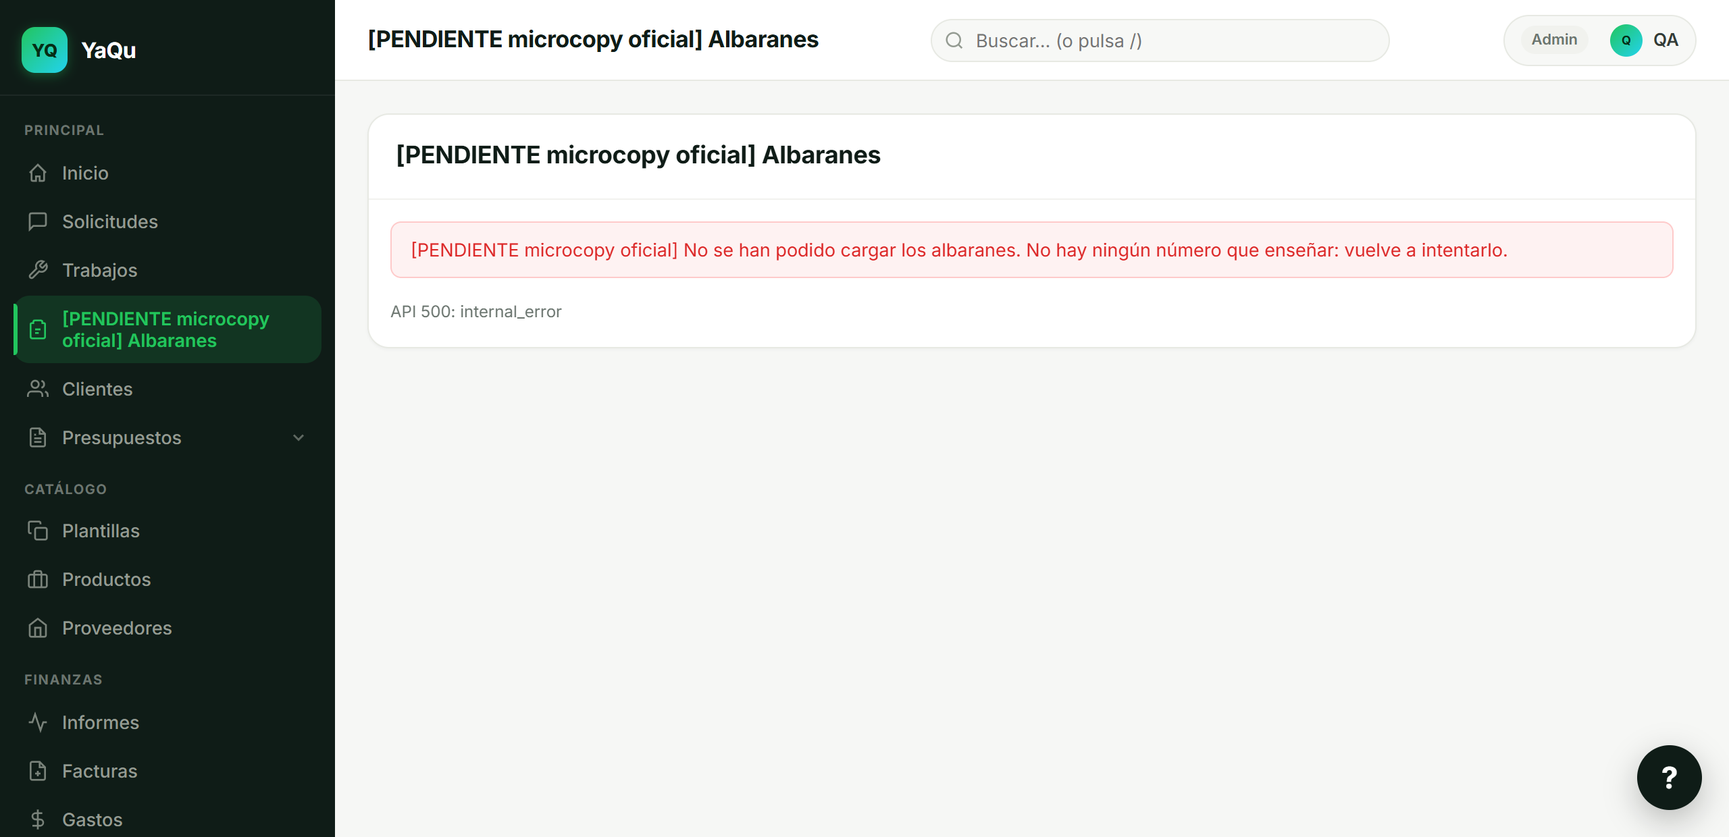
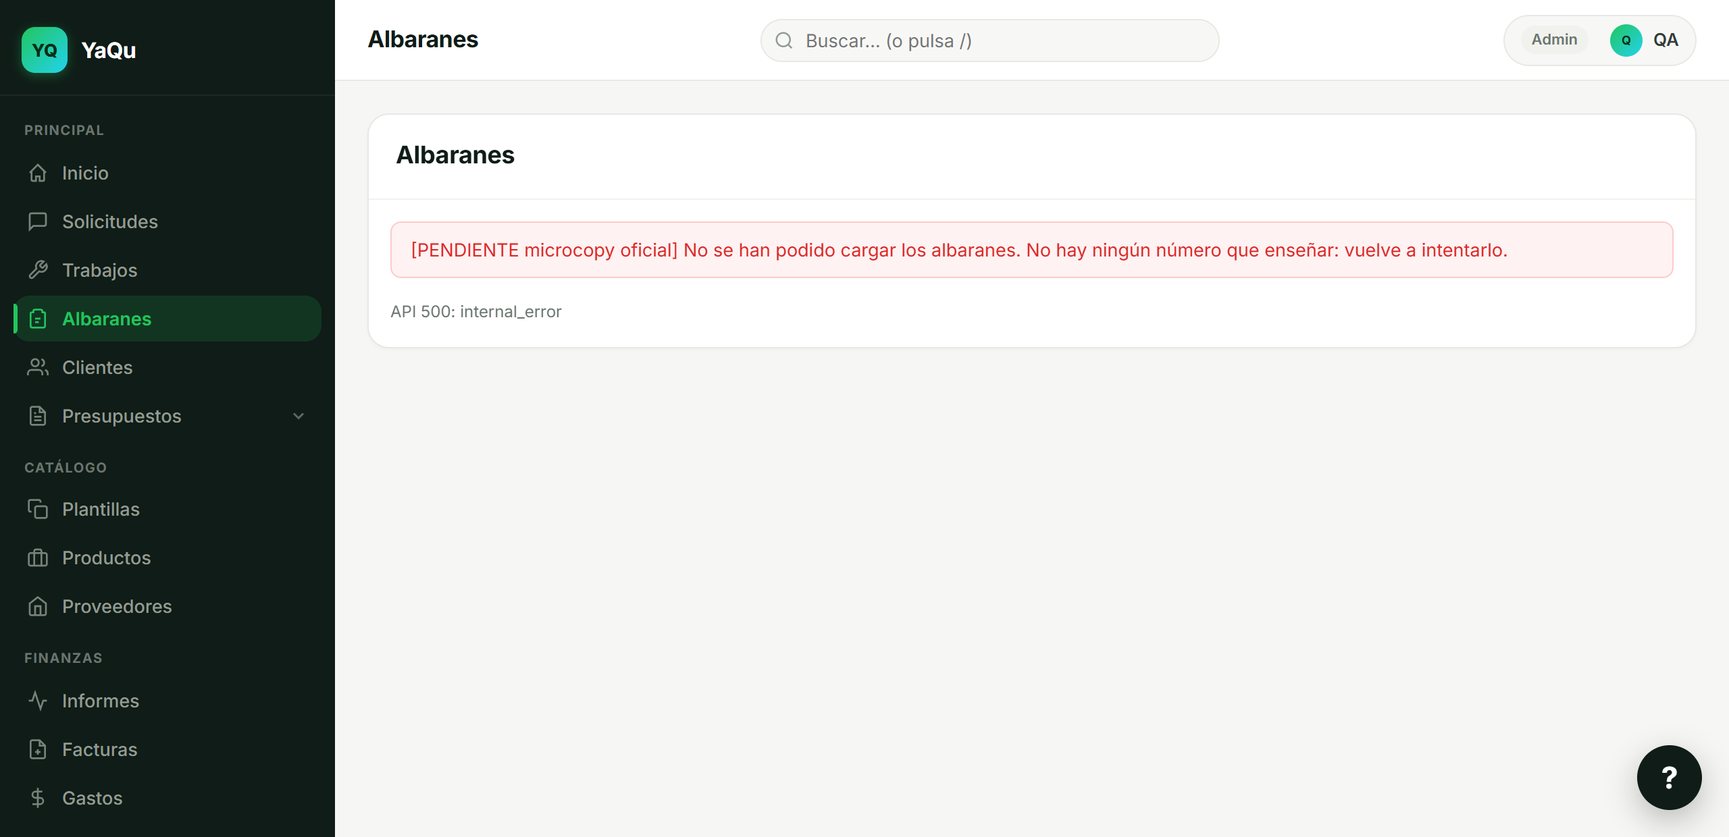
SCRUM-301: admin-only el listado global, y la microcopy APROBADA
PERMISOS. La primera version declaro la ruta en TECNICO_ALLOWED con el criterio
de `consolidables` -- "es la misma informacion, agrupada". El asesor lo rechazo
y tenia razon: ese criterio vale cuando la informacion YA era visible, y aqui no
lo era.

SCRUM-147 midio y cerro que un tecnico solo ve SUS Trabajos (seesOnlyOwnJobs:
allowlist de admin, rol desconocido restringido). Los albaranes cuelgan de
Trabajos, asi que un listado global le enseñaria de que obras AJENAS hay partes,
de que clientes y con que fechas: lo que la puerta principal le niega, por la
puerta de atras. Y no es aplazable -- cerrar de mas es un incordio; abrir de mas
no se deshace, porque arreglarlo despues obliga a saber quien lo uso mientras
tanto.

Asi que requireRole('admin'), fuera de TECNICO_ALLOWED y DENTRO de
ADMIN_ONLY_ROUTES: ahi su 403 con sesion de tecnico queda EXIGIDO por la tanda
gateada, no solo declarado en un comentario.

Medido por si se decide abrirlo con criterio: aplicar el filtro de Trabajos
seria barato -- seesOnlyOwnJobs + prefiltrar los jobId con operarioId =
teamMemberId, como hace GET /admin/jobs -- pero QUE debe ver exactamente el
tecnico es decision de producto y se toma en su ticket, no aqui.

MICROCOPY. Aprobadas las cuatro ranuras: tres tal cual y el filtro con retoque
("Facturacion: todos", no "todas", porque concuerda con "albaranes", que es lo
que se cuenta). El marcador se retira de esas cuatro y EL GUARD CAMBIA DE
[…]

Changed region(s): [[0.0, 0.3677, 0.1875, 1.0], [0.2188, 0.1532, 0.5, 0.2145], [0.1875, 0.0306, 0.6562, 0.0613]]

diff --git a/public/dashboard/js/albaranesView.js b/public/dashboard/js/albaranesView.js
@@ -28,23 +28,43 @@
 // «No tienes ninguno» sigue siendo una respuesta legítima y tiene su propio estado vacío.
 //
 // ─────────────────────────────────────────────────────────────────────────────────────────
-// MICROCOPY (regla 30): TODO RÓTULO VA CON MARCADOR
+// MICROCOPY: APROBADA POR EL ASESOR EL 5-AGO-2026 (regla 30)
 //
-// El nombre de la sección, los de las pestañas y los de las columnas son texto SIN APROBAR. Van con
-// `[PENDIENTE microcopy oficial]` delante, mismo patrón que los cuatro títulos de bloque de
-// SCRUM-286. Sí, se lee mal a propósito: el marcador existe para que moleste hasta que el texto
-// definitivo esté aprobado.
+// Se entregó con `[PENDIENTE microcopy oficial]` en cada rótulo y el asesor aprobó las cuatro
+// ranuras: tres tal cual y una con retoque («Facturación: TODOS», no «todas», porque concuerda con
+// «albaranes» — que es lo que se cuenta; «todas» arrastra a pensar en facturas, que es justo el
+// objeto que este filtro NO cuenta). El marcador se retira y el guard cambia de trabajo: ahora
+// compara ranura a ranura contra el texto aprobado, porque retocar copy aprobada es decisión del
+// asesor y no un detalle de implementación.
 //
-// Las etiquetas de estado dentro de cada fila NO llevan marcador y no es una excepción: ahí se
-// imprime EL VALOR DEL MODELO tal cual (`emitido`, `parcial`), que es dato y no copy. Además es lo
-// que impide repetir el error de B2 — nadie va a escribir «Enviado» en una pantalla que pone
-// `emitido`.
+// ⚠ LAS ETIQUETAS DE LAS PESTAÑAS SE DERIVAN DEL VALOR, NO SE ESCRIBEN. Un mapa
+// `{ borrador: 'Borradores', … }` sería otra vez la lista a mano que este fichero evita: el día que
+// el modelo gane un estado, esa pestaña saldría sin nombre o directamente no saldría. La regla de
+// plural del español (vocal → +s, consonante → +es) produce EXACTAMENTE los tres rótulos aprobados,
+// y un test los fija uno a uno.
+//
+// Las etiquetas de estado dentro de cada fila imprimen EL VALOR DEL MODELO tal cual (`emitido`,
+// `parcial`): dato, no copy. Es lo que impide repetir el error de B2 — nadie va a escribir
+// «Enviado» en una pantalla que pone `emitido`.
 (function () {
+  const TODOS = '__todos__'; // valor de pestaña, no un estado del modelo
+
+  // Las CUATRO ranuras aprobadas son: el nombre de la sección, las pestañas, las columnas y el
+  // filtro de facturación. El resto de textos de esta pantalla —el aviso de error, el subtítulo del
+  // recuento, el buscador y los dos estados vacíos— NO se sometieron y siguen con marcador: son
+  // ranuras distintas y aprobarlas por mi cuenta sería inventarme copy oficial (regla 30).
   const MARCA = '[PENDIENTE microcopy oficial]';
-  /** Rótulo sin aprobar: marcador + borrador de texto (patrón SCRUM-286). */
   function rotulo(borrador) { return MARCA + ' ' + borrador; }
 
-  const TODOS = '__todos__'; // valor de pestaña, no un estado del modelo
+  /** Plural español del valor + mayúscula inicial: `borrador` → `Borradores`, `emitido` → `Emitidos`. */
+  function etiquetaEstado(valor) {
+    const s = String(valor).replace(/_/g, ' ');
+    const plural = /[aeiouáéíóú]$/i.test(s) ? s + 's' : s + 'es';
+    return plural.charAt(0).toUpperCase() + plural.slice(1);
+  }
+
+  /** El eje de cobro se lee como se escribe: `sin_facturar` → `sin facturar`. Sin plural. */
+  function etiquetaCobro(valor) { return String(valor).replace(/_/g, ' '); }
 
   function esc(s) {
     return String(s == null ? '' : s).replace(/[&<>"']/g, (c) => (
@@ -84,7 +104,7 @@
 
     const left = document.createElement('div');
     const title = document.createElement('h2');
-    title.textContent = rotulo('Albaranes');
+    title.textContent = 'Albaranes'; // APROBADO 5-ago-2026 (nombre del documento, precedente C2)
     title.style.cssText = 'margin:0;font-size:18px';
     left.appendChild(title);
     const subtitle = document.createElement('p');
@@ -155,7 +175,7 @@
         b.type = 'button';
         b.className = 'data-card-tab' + (d.valor === TODOS ? ' active' : '');
         b.dataset.tab = d.valor;
-        b.textContent = rotulo(d.valor === TODOS ? 'todos' : d.valor);
+        b.textContent = d.valor === TODOS ? 'Todos' : etiquetaEstado(d.valor); // APROBADO
         const badge = document.createElement('span');
         badge.className = 'badge badge-slate';
         badge.dataset.contador = d.valor;
@@ -183,15 +203,19 @@
       const selCobro = document.createElement('select');
       selCobro.className = 'input';
       selCobro.style.cssText = 'width:auto';
-      selCobro.setAttribute('aria-label', rotulo('Filtrar por facturación'));
+      selCobro.setAttribute('aria-label', 'Facturación'); // APROBADO
       // El eje derivado vive en su propio control, con sus contadores: es OTRA pregunta, no una
       // pestaña más. Aplanarlo perdería el `parcial`.
-      const opciones = [{ valor: TODOS, texto: 'facturación: todas', n: contadores.total }]
-        .concat(ejes.cobro.map((v) => ({ valor: v, texto: v, n: contadores.porCobro[v] || 0 })));
+      //
+      // APROBADO con retoque (5-ago-2026): «todos», no «todas» — concuerda con «albaranes», que es
+      // lo que se cuenta. «Todas» arrastra a pensar en facturas, que es justo el objeto que este
+      // filtro NO cuenta.
+      const opciones = [{ valor: TODOS, texto: 'Facturación: todos', n: contadores.total }]
+        .concat(ejes.cobro.map((v) => ({ valor: v, texto: etiquetaCobro(v), n: contadores.porCobro[v] || 0 })));
       for (const o of opciones) {
         const op = document.createElement('option');
         op.value = o.valor;
-        op.textContent = rotulo(o.texto + ' (' + o.n + ')');
+        op.textContent = o.texto + ' (' + o.n + ')';
         selCobro.appendChild(op);
       }
       selCobro.addEventListener('change', () => { cobroActivo = selCobro.value; activar(); });
@@ -207,7 +231,7 @@
       const thead = document.createElement('thead');
       thead.innerHTML = '<tr>' +
         ['Nº', 'Emisión', 'Entrega', 'Cliente', 'Trabajo', 'Estado']
-          .map((c) => '<th>' + esc(rotulo(c)) + '</th>').join('') +
+          .map((c) => '<th>' + esc(c) + '</th>').join('') + // APROBADAS tal cual
         '</tr>';
       tabla.appendChild(thead);
       const tbody = document.createElement('tbody');

diff --git a/src/core/http/adminRouteDeclarations.ts b/src/core/http/adminRouteDeclarations.ts
@@ -77,14 +77,15 @@ export const TECNICO_ALLOWED: ReadonlyArray<RouteDeclaration> = [
   { method: 'GET',   path: '/admin/albaranes/:id/fotos', why: 'Ver las fotos que él mismo subió' },
   { method: 'POST',  path: '/admin/albaranes/:id/enviar-whatsapp', why: 'S1 "enviar WA" ✅; requireActivePlan, sin rol (SCRUM-47)' },
   { method: 'POST',  path: '/admin/albaranes/:id/enviar-para-firmar', why: 'Firma remota del albarán (SCRUM-47/49)' },
-  // SCRUM-301 (C1): el LISTADO GLOBAL. Mismo criterio que `consolidables` justo debajo —«es la
-  // misma información, agrupada»—: solo lectura, filtrado por merchant, y ni un dato que el técnico
-  // no vea ya entrando obra por obra. Negárselo mientras puede rellenar, emitir y firmar cada parte
-  // (y ver su ficha, SCRUM-302) sería incoherente: es su trabajo de campo, ahora con un sitio.
-  // ⚠ Es una decisión de PERMISOS y va escrita para que se revise: si el criterio fuera que el
-  // operario solo vea los partes de SUS obras, esto no se arregla aquí sino con un filtro por
-  // operario en la consulta — y eso es otro ticket.
-  { method: 'GET',   path: '/admin/albaranes', why: 'SCRUM-301: listado global de partes, la misma información que ya ve por obra, agrupada' },
+  // ⚠ SCRUM-301: `GET /admin/albaranes` (el listado global) NO está en esta lista, y la razón
+  // merece leerse antes de «arreglarlo» añadiéndola: es **admin-only con `requireRole`**.
+  //
+  // El criterio de «la misma información, agrupada» —el que justifica `consolidables` aquí abajo—
+  // vale cuando la información YA era visible. Para el técnico no lo era: SCRUM-147 midió y cerró
+  // que un técnico solo ve SUS Trabajos (`seesOnlyOwnJobs`, allowlist, rol desconocido restringido).
+  // Los albaranes cuelgan de Trabajos, así que un listado global le enseñaría de qué obras AJENAS
+  // hay partes, de qué clientes y con qué fechas: exactamente lo que la puerta principal le niega,
+  // servido por la puerta de atrás. Cerrar de más es un incordio; abrir de más no se deshace.
   { method: 'GET',   path: '/admin/albaranes/pendientes-facturar', why: 'SCRUM-69: bandeja de facturación, mismo criterio S1 que GET /admin/invoices ("facturas: ver sí")' },
   { method: 'GET',   path: '/admin/albaranes/consolidables', why: 'SCRUM-70: vista previa de la recapitulativa (cliente+mes). MISMO criterio que la bandeja de SCRUM-69 — es la misma información, agrupada: solo lectura y ningún dato que el técnico no vea ya ahí. NO emite.' },
 

diff --git a/src/modules/jobs/app/routes/albaranes.routes.ts b/src/modules/jobs/app/routes/albaranes.routes.ts
@@ -96,8 +96,23 @@ const lectorPrismaListado: LectorListado = {
  * La lógica (ejes, contadores, derivado de cobro) vive en `albaranesListado.ts` con su lector
  * inyectable: así la tenencia se prueba EJERCITANDO el camino con dos merchants, y no fiándose de
  * que el fichero mencione `merchantId` (SCRUM-348).
+ *
+ * 🔴 ADMIN-ONLY, y no es una precaución de más. SCRUM-147 midió y cerró que **un técnico solo ve
+ * SUS Trabajos** (`seesOnlyOwnJobs`: allowlist de 'admin', rol desconocido restringido). Los
+ * albaranes cuelgan de Trabajos, así que un listado global le enseñaría de qué obras AJENAS hay
+ * partes, de qué clientes y con qué fechas — lo que la puerta principal le niega, servido por la
+ * puerta de atrás.
+ *
+ * El criterio de «la misma información, agrupada» (el que abre `consolidables` al técnico) vale
+ * cuando la información YA era visible; aquí no lo era. Abrir de más no se deshace: haría falta
+ * saber quién lo usó mientras tanto.
+ *
+ * Si algún día el técnico debe ver los partes de SUS obras, el mecanismo ya existe y es barato
+ * —`seesOnlyOwnJobs(req.userRole)` + prefiltrar los `jobId` con `operarioId = req.teamMemberId`,
+ * como hace `GET /admin/jobs`—, pero **qué debe ver exactamente es una decisión de producto**, no
+ * un detalle de implementación: se decide en su ticket, no aquí.
  */
-router.get('/', async (req, res) => {
+router.get('/', requireRole('admin'), async (req, res) => {
   try {
     const listado = await listarAlbaranesDelMerchant(req.merchantId!, lectorPrismaListado);
     return res.json(listado);

diff --git a/public/dashboard/index.html b/public/dashboard/index.html
@@ -47,11 +47,12 @@
         </button>
 
         <!-- SCRUM-301 (C1): los albaranes pasan a ser SITIO propio. Va justo detrás de Trabajos
-             porque cuelgan de una obra, no de un cliente. ⚠ El rótulo es microcopy SIN APROBAR
-             (regla 30) y lleva su marcador; B1 no había creado esta entrada — medido, no supuesto. -->
+             porque cuelgan de una obra, no de un cliente. B1 no había creado esta entrada — medido,
+             no supuesto. Rótulo APROBADO por el asesor el 5-ago-2026: es el nombre del documento,
+             no copy de acción (mismo criterio que C2 fijó para el título del detalle). -->
         <button class="nav-item" data-view="albaranes" id="nav-albaranes">
           <svg class="nav-icon" viewBox="0 0 24 24" fill="none" stroke="currentColor" stroke-width="2"><path d="M9 2h6a2 2 0 012 2v1h2a1 1 0 011 1v14a2 2 0 01-2 2H6a2 2 0 01-2-2V6a1 1 0 011-1h2V4a2 2 0 012-2z"/><path d="M9 12h6M9 16h4"/></svg>
-          <span id="nav-albaranes-label">[PENDIENTE microcopy oficial] Albaranes</span>
+          <span id="nav-albaranes-label">Albaranes</span>
         </button>
 
         <button class="nav-item" data-view="customers">

diff --git a/src/core/http/adminOnlyRoutes.ts b/src/core/http/adminOnlyRoutes.ts
@@ -35,6 +35,11 @@ export const ADMIN_ONLY_ROUTES: ReadonlyArray<{ method: string; path: string; bo
   { method: 'POST', path: '/admin/connect/onboard' },
   // Supervisión por operario (SCRUM-24): S1 → equipo/supervisión es Admin
   { method: 'GET', path: '/admin/metrics/operarios' },
+  // SCRUM-301 (C1): el listado GLOBAL de albaranes. Un técnico solo ve SUS Trabajos (SCRUM-147,
+  // `seesOnlyOwnJobs`), y los albaranes cuelgan de Trabajos: enseñárselos todos le diría de qué
+  // obras ajenas hay partes, de qué clientes y con qué fechas. Aquí queda su 403 EXIGIDO, no
+  // solo declarado — que es la diferencia entre una decisión de permisos y una intención.
+  { method: 'GET', path: '/admin/albaranes' },
   // SCRUM-55: su hermana /team salía 200 a un Operario en PRODUCCIÓN. Mismo criterio de S1
   // ("equipo ❌ Técnico") y mismo router; estaba aparcada como "Nivel 2" por descuido, no
   // por duda. Aquí queda su 403 exigido.

diff --git a/public/dashboard/js/app.js b/public/dashboard/js/app.js
@@ -247,9 +247,9 @@ async function initApp() {
         renderInvoicesView(viewContainer);
         break;
       case 'albaranes':
-        // SCRUM-301 (C1): sección propia. El título de la pantalla es microcopy sin aprobar
-        // (regla 30) igual que el rótulo del menú, así que lleva su marcador.
-        viewTitle.textContent = '[PENDIENTE microcopy oficial] Albaranes';
+        // SCRUM-301 (C1): sección propia. Rótulo APROBADO (5-ago-2026), mismo que el del menú: es
+        // el nombre del documento, no copy de acción — el criterio que C2 dejó escrito aquí abajo.
+        viewTitle.textContent = 'Albaranes';
         if (typeof window.renderAlbaranesView === 'function') window.renderAlbaranesView(viewContainer);
         break;
       case 'albaran-detail':

diff --git a/docs/master/SCRUM-301.md b/docs/master/SCRUM-301.md
@@ -4,7 +4,7 @@
 
 **Medido contra:** `origin/main` = `56874623baa406a0e8e38b93c236f7a4740b1e6a` · 2026-08-05T16:38:08+01:00
 
-**Tanda:** 1759 tests, 1692 pass, 0 fail, 67 skipped (los 67 son los gateados de staging)
+**Tanda:** 1760 tests, 1693 pass, 0 fail, 67 skipped (los 67 son los gateados de staging)
 
 ## El defecto
 
@@ -99,7 +99,7 @@ que mencione `merchantId` por el motivo que sea (medido en SCRUM-348). Aquí se 
 
 ## Verificado en rojo
 
-Once sabotajes, cada uno aplicado, compilado, corrido y revertido con verificación byte a byte:
+Dieciséis sabotajes, cada uno aplicado, compilado, corrido y revertido con verificación byte a byte:
 
 | Se quita la cosa vigilada | Sale rojo |
 | --- | --- |
@@ -112,10 +112,15 @@ Once sabotajes, cada uno aplicado, compilado, corrido y revertido con verificaci
 | La vista enumera un estado a mano | ③ la vista no enumera |
 | El camino de error dibuja pestañas | el guard del error |
 | El aviso de error pierde el tono (invisible por CSS) | el guard del error |
-| El rótulo del menú pierde el marcador | microcopy |
 | **La vista deja de cargarse en `index.html`** | **nada — y ése fue el hallazgo** |
+| La ruta pierde su `requireRole` | SCRUM-55 (fail-closed de roles) |
+| El filtro vuelve a decir «todas» | la copy aprobada, ranura a ranura |
+| La regla de plural deja de dar «Borradores» | la copy aprobada |
+| Se reescribe una columna aprobada | la copy aprobada |
+| Un rótulo SIN aprobar pierde su marcador | el guard de lo no sometido |
+| El menú vuelve a llevar marcador sobre texto aprobado | la copy aprobada |
 
-🔴 **El último sabotaje encontró un guard incapaz de fallar.** Comprobaba `assert.match(index,
+🔴 **El de «la vista deja de cargarse» encontró un guard incapaz de fallar.** Comprobaba `assert.match(index,
 /albaranesView\.js/)`, así que **comentar la etiqueta `<script>` lo dejaba en verde**: el texto
 seguía en el fichero. Un guard que no distingue una etiqueta viva de una comentada no vigila el
 cableado, vigila la ortografía. Ahora lee los `src` de verdad, con los comentarios HTML fuera, y el
@@ -142,12 +147,53 @@ La tanda completa —no la del ticket— salió roja tres veces. Ninguna era rui
    admitirlo—; y **reordenarlos, que sí compila, pone rojo el assert**. Antes, un comentario movido
    podía tumbarlo y un cambio real de tipo no lo tocaba.
 
-## Microcopy (regla 30) — y una propuesta
+## 🔴 Permisos: admin-only, y el motivo es una fuga
 
-Todo rótulo nuevo va con `[PENDIENTE microcopy oficial]` (patrón SCRUM-286) y su guard. **Se nota, y
-está fotografiado**: el prefijo empuja `Cliente`, `Trabajo` y `Estado` fuera del ancho visible en
-escritorio — incluida la columna que es la ventaja del ticket. No es un defecto de maquetación, es
-el coste del marcador, y con los textos aprobados las seis columnas caben de sobra.
+La primera versión declaró la ruta en `TECNICO_ALLOWED` con el criterio de `consolidables` —«es la
+misma información, agrupada»—. **El asesor lo rechazó y tenía razón:** ese criterio vale cuando la
+información YA era visible, y aquí no lo era.
+
+**SCRUM-147 midió y cerró que un técnico solo ve SUS Trabajos** (`seesOnlyOwnJobs`: allowlist de
+`admin`, rol desconocido restringido). Los albaranes cuelgan de Trabajos, así que un listado global
+le enseñaría **de qué obras ajenas hay partes, de qué clientes y con qué fechas**: justo lo que la
+puerta principal le niega, servido por la puerta de atrás. Y no es aplazable — **cerrar de más es un
+incordio; abrir de más no se deshace**, porque arreglarlo después obliga a saber quién lo usó
+mientras tanto.
+
+Así que `requireRole('admin')`, fuera de `TECNICO_ALLOWED`, y **dentro de `ADMIN_ONLY_ROUTES`**: ahí
+su 403 con sesión de técnico queda **exigido por la tanda gateada**, no solo declarado en un
+comentario. Es la diferencia entre una decisión de permisos y una intención.
+
+**Medido, por si se decide abrirlo con criterio:** aplicar el filtro de Trabajos sería barato —
+`seesOnlyOwnJobs(req.userRole)` + prefiltrar los `jobId` con `operarioId = req.teamMemberId`, como
+hace `GET /admin/jobs` — pero **qué debe ver exactamente el técnico es una decisión de producto**
+(¿los partes de sus obras? ¿solo los que él firmó?), y esa se toma en su ticket, no aquí.
+
+## Microcopy (regla 30): aprobada, y el guard cambia de trabajo
+
+Se entregó con `[PENDIENTE microcopy oficial]` en cada rótulo (patrón SCRUM-286) y el asesor aprobó
+las cuatro ranuras el 5-ago-2026: **tres tal cual y el filtro con retoque** — `Facturación: todos`,
+no «todas», porque concuerda con «albaranes», que es lo que se cuenta; «todas» arrastra a pensar en
+facturas, el objeto que este filtro NO cuenta.
+
+El rótulo `Albaranes` se aprobó **reutilizando un precedente escrito** en vez de pedir criterio
+nuevo: C2 ya fijó en `main` que «el rótulo del título es el nombre del documento, no microcopy de
+acción».
+
+Y el guard **cambia de trabajo**: dejó de exigir el marcador y ahora compara **ranura a ranura**
+contra el texto aprobado, porque retocar copy aprobada es decisión del asesor. Con un detalle que
+importa: los rótulos de las pestañas **no se escriben, se derivan** del valor con la regla de plural
+del español (vocal → +s, consonante → +es), que produce exactamente `Borradores · Emitidos ·
+Firmados`. Un mapa `{ borrador: 'Borradores', … }` habría reintroducido la lista a mano que el resto
+del fichero evita.
+
+**Los cinco textos que no se sometieron siguen con marcador** (aviso de error, recuento del
+subtítulo, buscador y los dos estados vacíos): aprobarlos por mi cuenta sería inventarme copy
+oficial, y hay un guard que lo impide.
+
+Efecto medido de la aprobación, visible en las capturas: con el marcador, el prefijo empujaba
+`Cliente`, `Trabajo` y `Estado` fuera del ancho visible — incluida la columna que es la ventaja del
+ticket. Con el texto aprobado, **las seis caben**.
 
 ## Lo que NO cubre
 
@@ -172,8 +218,9 @@ el coste del marcador, y con los textos aprobados las seis columnas caben de sob
 * `src/modules/jobs/app/routes/albaranes.routes.ts` — `GET /admin/albaranes` + su lector Prisma.
 * `public/dashboard/js/albaranesView.js` — **nuevo**. La vista vanilla, sin CSS nuevo.
 * `public/dashboard/index.html` · `public/dashboard/js/app.js` — entrada de menú, script y ruta.
-* `src/core/http/adminRouteDeclarations.ts` — la ruta declarada como TECNICO_ALLOWED, con motivo.
+* `src/core/http/adminRouteDeclarations.ts` — por qué esta ruta NO está en TECNICO_ALLOWED.
+* `src/core/http/adminOnlyRoutes.ts` — su 403 con sesión de técnico, exigido en la tanda gateada.
 * `public/sw.js` — el script nuevo en el shell del service worker.
-* `tests/scrum301-albaranes-seccion.test.mjs` — **nuevo**, 15 tests.
+* `tests/scrum301-albaranes-seccion.test.mjs` — **nuevo**, 16 tests.
 * `tests/scrum302-patron-albaran.test.mjs` — su guard del derivado, ahora contra el valor compilado.
 * `docs/capturas/scrum-301/` — cuatro capturas AB6 y su README.

diff --git a/docs/capturas/scrum-301/README.md b/docs/capturas/scrum-301/README.md
@@ -30,17 +30,18 @@ Ahora el suelo también falla si hay un `.modal-overlay` / `#onboarding-backdrop
 | `scrum301-error-1280.png` | **La captura que sostiene el ticket**: con la consulta caída NO hay pestañas, NO hay contadores y NO hay ceros — solo el aviso en rojo. |
 | `scrum301-vacio-1280.png` | Cero albaranes de verdad: pestañas a 0 y estado vacío. Es el contraste del anterior: el mismo número con significado opuesto, y se distinguen en pantalla. |
 
-## ⚠ Lo que se ve raro y por qué: el marcador de microcopy
+## Microcopy: aprobada el 5-ago-2026 — y lo que la aprobación arregló
 
-Todo rótulo nuevo lleva `[PENDIENTE microcopy oficial]` delante (regla 30, patrón de SCRUM-286). Es
-deliberado y se nota: **en escritorio el prefijo empuja las columnas `Cliente`, `Trabajo` y `Estado`
-fuera del ancho visible** (siguen accesibles con el scroll horizontal de `.table-scroll`).
+La primera tanda de capturas se hizo con `[PENDIENTE microcopy oficial]` en cada rótulo, y el
+marcador **empujaba `Cliente`, `Trabajo` y `Estado` fuera del ancho visible** — incluida la columna
+que es la ventaja del ticket. No era maquetación: era el coste del marcador.
 
-Eso incluye la columna `Trabajo`, que es la ventaja del ticket. **No es un defecto de maquetación:
-es el coste del marcador**, y desaparece en cuanto el asesor apruebe los textos —con los rótulos
-definitivos (`Nº · Emisión · Entrega · Cliente · Trabajo · Estado`) las seis columnas caben de
-sobra. La propuesta de copy va en la entrada del registro.
+El asesor aprobó las cuatro ranuras (tres tal cual y el filtro con retoque, «todos» en vez de
+«todas») y estas capturas están rehechas con el texto definitivo: **las seis columnas caben y
+`Trabajo` se ve enlazada**.
 
+Siguen con marcador los cinco textos que NO se sometieron —el aviso de error, el recuento del
+subtítulo, el buscador y los dos estados vacíos—, y se ven así a propósito en las capturas.
 ## Checklist AB6
 
 | Punto | Estado |
